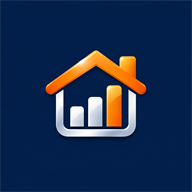
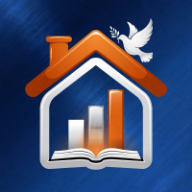
Add files via upload

diff --git a/index.html b/index.html
@@ -397,7 +397,7 @@ table.tbl{width:100%; border-collapse:collapse; margin-top:8px}
 <header class="top">
   <div class="top-row">
     <div class="brand">
-      <h1><span class="logos"><img src="icon-192.png" alt="" class="logo"><img src="logo-biblia.jpg" alt="" class="logo"><img src="logo-paloma.jpg" alt="" class="logo"></span>Libro de Finanzas</h1>
+      <h1><span class="logos"><img src="icon-192.png" alt="" class="logo"></span>Libro de Finanzas</h1>
       <p>Un hogar organizado con propósito</p>
     </div>
     <div class="controls" id="controls" hidden>
@@ -423,7 +423,7 @@ table.tbl{width:100%; border-collapse:collapse; margin-top:8px}
     <circle cx="395" cy="12" r="9" fill="#fff"/>
   </svg>
   <div class="heroTxt">
-    <div class="heroLogos"><img class="heroLogo" src="icon-192.png" alt=""><img class="heroLogo" src="logo-biblia.jpg" alt=""><img class="heroLogo" src="logo-paloma.jpg" alt=""></div>
+    <div class="heroLogos"><img class="heroLogo" src="icon-192.png" alt=""></div>
     <h1>Libro de <em>Finanzas</em></h1>
     <p class="sub">Un hogar organizado con propósito</p>
     <p class="lead">El cuaderno digital para llevar al día el dinero de tu casa, a tu ritmo y con una palabra que reconfortará tu día.</p>
@@ -499,7 +499,7 @@ table.tbl{width:100%; border-collapse:collapse; margin-top:8px}
 </section>
 <div id="lockScreen" class="lkBack lkFull" hidden role="dialog" aria-modal="true" aria-label="App bloqueada">
   <div class="lkBox">
-    <div class="lkLogos"><img src="icon-192.png" alt=""><img src="logo-biblia.jpg" alt=""><img src="logo-paloma.jpg" alt=""></div>
+    <div class="lkLogos"><img src="icon-192.png" alt="" style="width:96px;height:96px;border-radius:22px"></div>
     <h2>Libro de Finanzas</h2>
     <p class="small">La app está bloqueada para proteger tus datos.</p>
     <button class="btn primary" id="lkBioBtn" type="button" hidden>Desbloquear con huella o rostro</button>

diff --git a/service-worker.js b/service-worker.js
@@ -5,8 +5,8 @@
 //
 // Si alguna vez hacés un cambio grande y querés forzar que todos bajen la
 // versión nueva, cambiá el número de CACHE_NAME (ej: 'lfh-shell-v13').
-const CACHE_NAME = 'lfh-shell-v18';
-const SHELL = ['./', './index.html', './privacidad.html', './manifest.json', './vendor/html2canvas.min.js', './vendor/jspdf.umd.min.js', './vendor/xlsx.full.min.js', './icon-192.png', './icon-512.png', './icon-maskable.png', './logo-biblia.jpg', './logo-paloma.jpg'];
+const CACHE_NAME = 'lfh-shell-v19';
+const SHELL = ['./', './index.html', './privacidad.html', './manifest.json', './vendor/html2canvas.min.js', './vendor/jspdf.umd.min.js', './vendor/xlsx.full.min.js', './icon-192.png', './icon-512.png', './icon-maskable.png'];
 
 self.addEventListener('install', event => {
   event.waitUntil(
